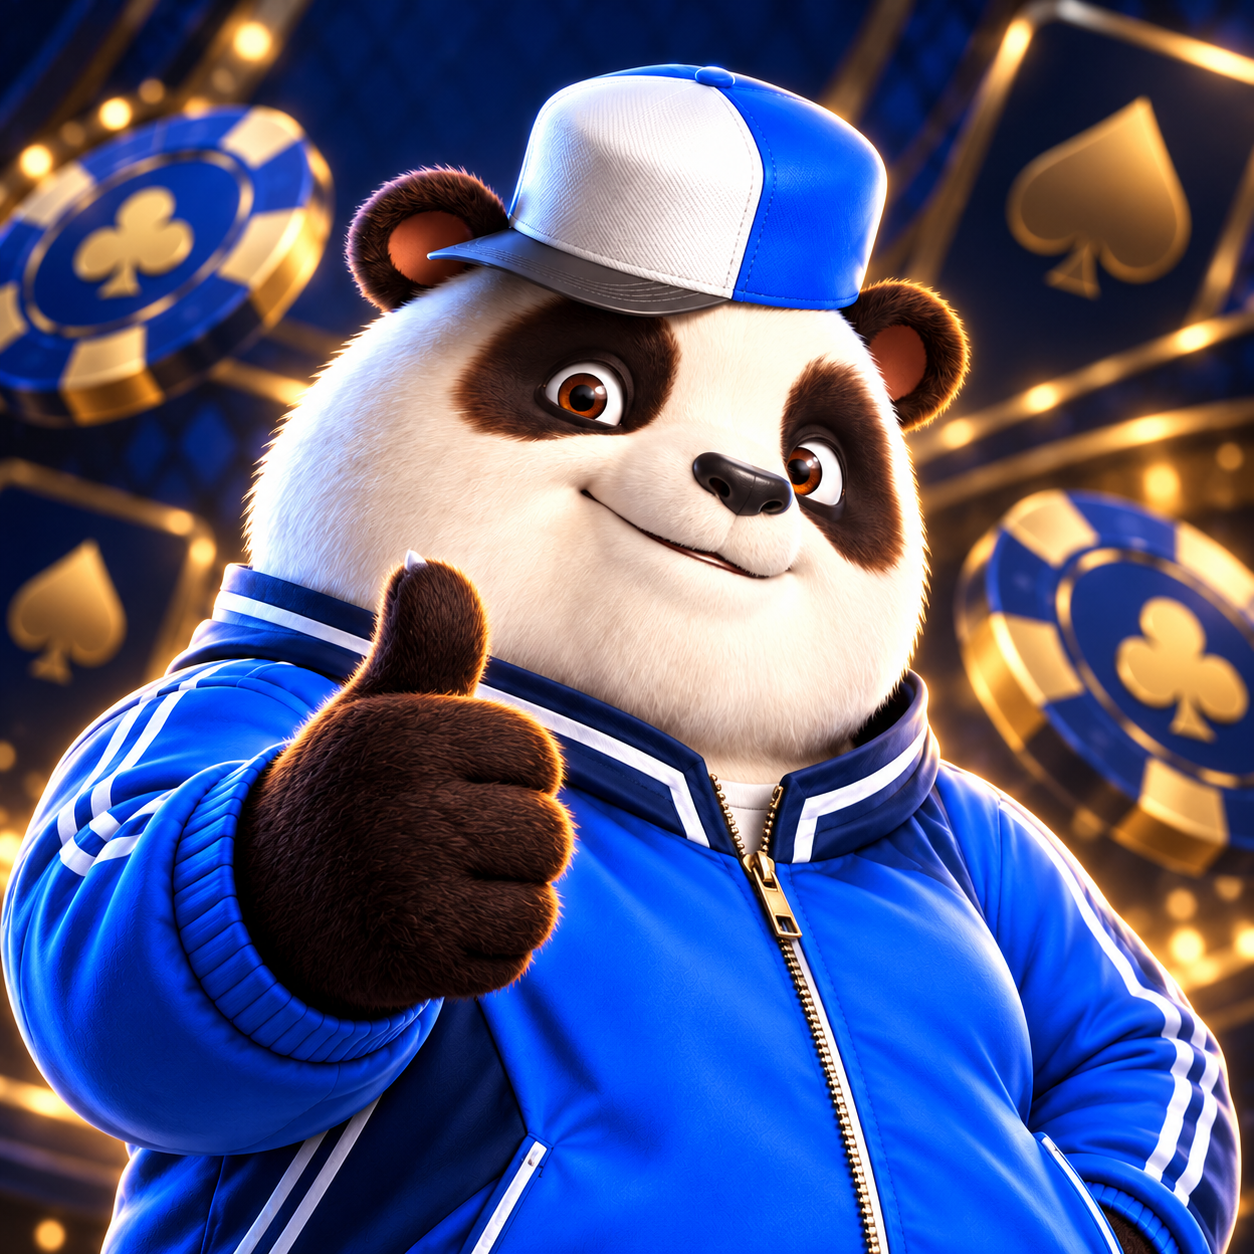
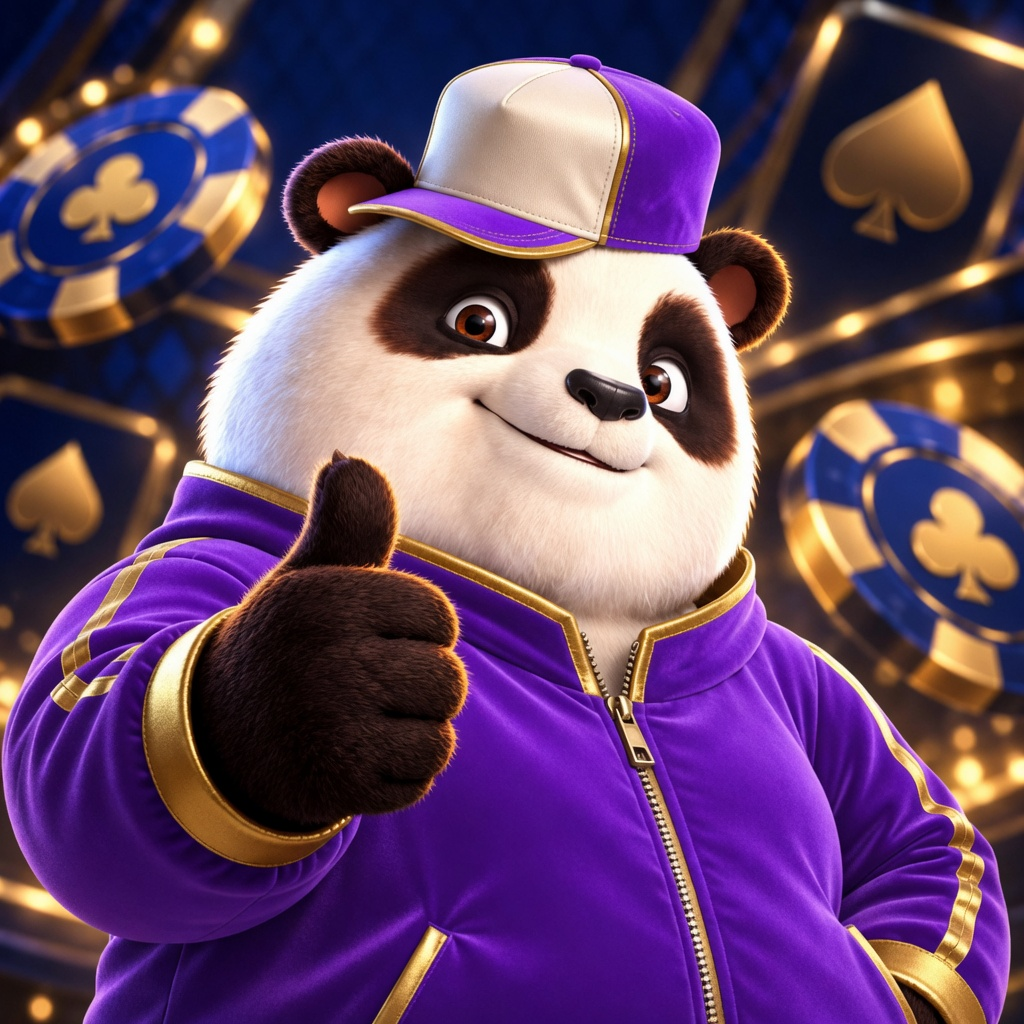
Brighten the panda outfit and refresh the access request.

diff --git a/src/reference.css b/src/reference.css
@@ -1123,8 +1123,46 @@ body:has(.user-login) { min-height: 100svh; }
 .player-access-new-request { width: 100%; margin: 10px 0 12px; border-color: #32749a; background: #103047; color: #aeeaff; }
 @media (max-width: 420px) {
   .player-access-card { padding: 16px; }
-  .player-access-name { flex-wrap: wrap; }
-  .player-access-name input { flex: 1 1 calc(100% - 120px); }
+  .player-access-name { flex-wrap: nowrap; }
+  .player-access-name input { flex: 1 1 0; }
+}
+.user-login .player-access-card { position: relative; width: min(100%, 470px); margin: 0 auto 18px; padding: 20px; overflow: hidden; border: 1px solid #763695; border-radius: 20px; background: linear-gradient(145deg, #17101eF5, #09080ef5 74%); box-shadow: 0 18px 48px #0009, 0 0 25px #a52ed122, inset 0 1px #ffffff10; backdrop-filter: blur(14px); }
+.user-login .player-access-heading { align-items: center; gap: 12px; margin: 0 0 19px; }
+.user-login .player-access-heading-icon { display: grid; place-items: center; width: 44px; height: 44px; flex: 0 0 auto; border: 1px solid #8d3bac; border-radius: 14px; background: linear-gradient(145deg, #321641, #1b1023); color: #e3a0fa; box-shadow: inset 0 0 14px #bf4be41c; }
+.user-login .player-access-eyebrow { display: block; margin: 0 0 4px; color: #d181ef; font-size: 9px; font-weight: 850; letter-spacing: .13em; line-height: 1.2; }
+.user-login .player-access-heading h2 { margin: 0 0 4px; color: #fff; font-size: 22px; font-weight: 850; letter-spacing: -.35px; line-height: 1.15; }
+.user-login .player-access-heading p { margin: 0; color: #c4b4cf; font-size: 12px; line-height: 1.4; }
+.user-login .player-access-back { display: grid; place-items: center; width: 38px; height: 38px; padding: 0; border: 1px solid #59336c; border-radius: 12px; background: #130e19; color: #e5c5f2; }
+.user-login .player-access-form { gap: 14px; }
+.player-access-step { display: flex; align-items: center; gap: 10px; margin: 0 0 1px; padding: 10px 12px; border: 1px solid #573264; border-radius: 13px; background: linear-gradient(110deg, #281434, #16101c); }
+.player-access-step > span { display: grid; place-items: center; width: 28px; height: 28px; flex: 0 0 auto; border: 1px solid #d7a84d; border-radius: 50%; background: #362718; color: #ffd36b; font-size: 13px; font-weight: 900; }
+.player-access-step > div { display: grid; gap: 2px; min-width: 0; flex: 1; }
+.player-access-step strong { color: #f7effb; font-size: 13px; }
+.player-access-step small { color: #bdaac8; font-size: 11px; }
+.player-access-step > b { color: #e5bd5c; font-size: 10px; font-weight: 800; letter-spacing: .04em; text-transform: uppercase; }
+.user-login .player-access-form label { display: block; margin: 0; color: #f1eaf5; font-size: 12px; font-weight: 750; line-height: 1.4; }
+.user-login .player-access-form label > span { color: #b99fc5; font-size: 11px; font-weight: 600; }
+.user-login .player-access-name { gap: 7px; margin-top: 7px; }
+.user-login .player-access-name > svg { left: 12px; color: #c877e8; }
+.user-login .player-access-name input,
+.user-login .player-access-form > label > input { min-width: 0; min-height: 48px; margin: 0; border: 1px solid #563765; border-radius: 11px; background: #110d17; color: #fff; caret-color: #e3a0fa; font-size: 14px; transition: border-color 140ms ease, box-shadow 140ms ease; }
+.user-login .player-access-name input { padding: 11px 10px 11px 38px; }
+.user-login .player-access-form > label > input { width: 100%; margin-top: 7px; padding: 11px 13px; }
+.user-login .player-access-name input::placeholder,
+.user-login .player-access-form > label > input::placeholder { color: #887695; opacity: 1; }
+.user-login .player-access-name input:focus,
+.user-login .player-access-form > label > input:focus { border-color: #c34de8; outline: 0; box-shadow: 0 0 0 3px #bd3de526; }
+.user-login .player-access-name button { display: inline-flex; align-items: center; justify-content: center; gap: 6px; min-height: 46px; padding: 8px 10px; border: 1px solid #75418d; border-radius: 11px; background: #21132a; color: #e9c5f7; font-size: 11px; font-weight: 750; }
+.player-access-field-hint { display: block; margin: 5px 0 0; color: #9f8ba9; font-size: 10px; font-weight: 500; line-height: 1.35; }
+.user-login .player-access-form .primary { min-height: 50px; margin: 1px 0 0; border: 1px solid #d05af0; border-radius: 12px; background: linear-gradient(110deg, #8c22b2, #66148a 56%, #42105f); color: #fff; font-size: 15px; font-weight: 850; letter-spacing: .01em; box-shadow: 0 7px 18px #871da933, inset 0 1px #ffffff20; }
+.user-login .player-access-form .primary:not(:disabled):hover { filter: brightness(1.12); transform: translateY(-1px); }
+.user-login .player-access-form .primary:disabled { opacity: .65; }
+@media (max-width: 360px) {
+  .user-login .player-access-card { padding: 16px; }
+  .user-login .player-access-heading { gap: 9px; }
+  .user-login .player-access-heading-icon { width: 39px; height: 39px; }
+  .user-login .player-access-heading h2 { font-size: 20px; }
+  .user-login .player-access-name button { gap: 4px; padding-inline: 8px; font-size: 10px; }
 }
 
 /* Tema oscuro: grafito casi negro con acentos azules discretos. */

diff --git a/src/player-access.tsx b/src/player-access.tsx
@@ -111,15 +111,14 @@ export function PlayerAccessRequest({ onBack }: { onBack: () => void }) {
   }
 
   return <section className="card player-access-card">
-    <header><div><h2>{thread ? `Solicitud de @${thread.username}` : 'Crear usuario'}</h2><p>{thread ? 'Conversá con el equipo de GANA777 desde este dispositivo.' : 'Elegí tu nombre de usuario y, si tenés, agregá el código de quien te recomendó.'}</p></div><button type="button" className="player-access-back" onClick={onBack} aria-label="Volver al ingreso"><ArrowLeft size={18} /></button></header>
+    <header className="player-access-heading"><span className="player-access-heading-icon"><UserRound size={21} /></span><div><small className="player-access-eyebrow">{thread ? 'SEGUIMIENTO' : 'SOLICITUD DE ACCESO'}</small><h2>{thread ? `Solicitud de @${thread.username}` : 'Crear tu usuario'}</h2><p>{thread ? 'Hablá con el equipo de Gana777 desde este dispositivo.' : 'Elegí un nombre para iniciar tu solicitud.'}</p></div><button type="button" className="player-access-back" onClick={onBack} aria-label="Volver al ingreso"><ArrowLeft size={18} /></button></header>
     {!thread ? <form className="player-access-form" onSubmit={event => void createRequest(event)}>
-      <label>Nombre de usuario<div className="player-access-name"><UserRound size={18} /><input name="username" value={username} onChange={event => setUsername(event.target.value.toLowerCase())} minLength={3} maxLength={32} pattern="[a-zA-Z0-9._-]+" autoCapitalize="none" autoComplete="username" placeholder="Ej.: jackpot777" required /><button type="button" onClick={() => setUsername(generatedName())}><Dices size={17} />Generar</button></div></label>
-      <label>Código de recomendado <span>(opcional)</span><input name="referral_code" maxLength={33} autoCapitalize="none" spellCheck={false} placeholder="Nombre de usuario de quien te recomendó" /></label>
+      <div className="player-access-step"><span>1</span><div><strong>Tus datos</strong><small>Nombre de usuario y referido opcional</small></div><b>1 paso</b></div>
+      <label>Nombre de usuario<div className="player-access-name"><UserRound size={18} /><input name="username" value={username} onChange={event => setUsername(event.target.value.toLowerCase())} minLength={3} maxLength={32} pattern="[a-zA-Z0-9._-]+" autoCapitalize="none" autoComplete="username" placeholder="Ej.: jackpot777" required /><button type="button" onClick={() => setUsername(generatedName())}><Dices size={17} />Generar</button></div><small className="player-access-field-hint">Usá de 3 a 32 letras, números, puntos o guiones.</small></label>
+      <label>Código de recomendado <span>· opcional</span><input name="referral_code" maxLength={33} autoCapitalize="none" spellCheck={false} placeholder="Usuario de quien te recomendó" /><small className="player-access-field-hint">Si nadie te invitó, podés dejarlo vacío.</small></label>
       <label className="player-access-honeypot" aria-hidden="true">Dejar vacío<input name="website" tabIndex={-1} autoComplete="off" /></label>
       {error && <p className="player-access-error" role="alert">{error}</p>}
-      <button className="primary" disabled={busy || restoring}>{restoring ? 'Cargando…' : busy ? 'Enviando solicitud…' : 'Solicitar usuario'}</button>
-      <small>No envíes documentos ni datos bancarios por este chat.</small>
-      <small>La cuenta se crea manualmente después de revisar tu solicitud. Podés solicitar usuarios desde una red compartida.</small>
+      <button className="primary" disabled={busy || restoring}>{restoring ? 'Cargando…' : busy ? 'Enviando solicitud…' : 'Enviar solicitud'}</button>
     </form> : <>
       <div className="player-access-status"><strong>{thread.status === 'approved' ? 'Usuario creado' : thread.status === 'rejected' ? 'Solicitud cerrada' : 'Esperando al equipo'}</strong><span>Usuario solicitado: @{thread.username}</span>{thread.referral_code && <small>Recomendado por @{thread.referral_code}</small>}</div>
       <div className="player-access-messages" ref={log} role="log" aria-live="polite">

diff --git a/src/user-views.tsx b/src/user-views.tsx
@@ -35,9 +35,9 @@ export function Brand({ panel = false, homeHeader = false }: { panel?: boolean; 
 export function SectionHeading({ icon, title, description }: { icon: ReactNode; title: string; description?: string }) {
   return <div className="section-heading"><span className="icon-circle">{icon}</span><div><h2>{title}</h2>{description && <p>{description}</p>}</div></div>;
 }
-export function LoginView({ admin, busy, configured, feedback, onLogin, onDemo, onHelp, retryAt, siteKey }: {
+export function LoginView({ admin, busy, configured, feedback, onLogin, onDemo, retryAt, siteKey }: {
   admin: boolean; busy: boolean; configured: boolean; feedback: ReactNode; retryAt: number; siteKey: string;
-  onLogin: (event: FormEvent<HTMLFormElement>, captchaToken: string | null) => Promise<void>; onDemo: () => void; onHelp: () => void;
+  onLogin: (event: FormEvent<HTMLFormElement>, captchaToken: string | null) => Promise<void>; onDemo: () => void;
 }) {
   const [visible, setVisible] = useState(false);
   const [captchaToken, setCaptchaToken] = useState<string | null>(null);
@@ -60,7 +60,7 @@ export function LoginView({ admin, busy, configured, feedback, onLogin, onDemo, 
   const surface = themeSurface(settings, path => supabase?.storage.from('app-assets').getPublicUrl(path).data.publicUrl ?? null);
   return <main className={`login ${admin ? 'admin-login' : `user-login ${surface.className}`}`} style={admin ? undefined : surface.style}>
     {admin && <Brand panel />}
-    {admin ? <p className="eyebrow">PANEL DE ADMINISTRACIÓN</p> : <div className={`login-character ${settings.login_image_path === 'brand/panda-login-transparent.png' ? 'transparent-character' : settings.login_image_layout === 'reference' ? 'reference-character' : ''}`}><StorageImage path={settings.login_image_path} fallbackPath="brand/panda-login-transparent.png" alt="Panda GANA777 con gorra y campera azul" /></div>}
+    {admin ? <p className="eyebrow">PANEL DE ADMINISTRACIÓN</p> : <div className={`login-character ${settings.login_image_path === 'brand/panda-login-transparent.png' || settings.login_image_path === 'brand/panda-login-bright.png' ? 'transparent-character' : settings.login_image_layout === 'reference' ? 'reference-character' : ''}`}><StorageImage path={settings.login_image_path} fallbackPath="brand/panda-login-transparent.png" alt="Panda GANA777 con gorra y campera morada" /></div>}
     {!admin && requestingAccess ? <PlayerAccessRequest onBack={() => setRequestingAccess(false)} /> : <><section className="card login-card">{!admin && <span className="brand login-domain-brand">gana777bet.com</span>}<h1>Bienvenido</h1>{admin && <p>Ingresá a tu cuenta</p>}
       <form onSubmit={submit}>
         {admin && <label htmlFor="email">Usuario o correo electrónico</label>}
@@ -71,7 +71,6 @@ export function LoginView({ admin, busy, configured, feedback, onLogin, onDemo, 
         {feedback}{retrySeconds > 0 && <p className="login-retry" role="status">Podés volver a intentar en {retrySeconds} segundos.</p>}
         <button className="primary" disabled={busy || retrySeconds > 0 || (!!siteKey && !captchaToken)}>{busy ? 'Ingresando…' : retrySeconds > 0 ? 'Esperá para reintentar' : 'Ingresar'}</button>
       </form>
-      {safeHttpsLink(settings.help_url) ? <a className="help-link" href={safeHttpsLink(settings.help_url)!} target="_blank" rel="noopener noreferrer">¿Necesitás ayuda?</a> : <button className="help-link" onClick={onHelp}>¿Necesitás ayuda?</button>}
     </section>{!admin && <button type="button" className="player-access-open" onClick={() => setRequestingAccess(true)}><span className="player-access-icon"><UserPlus size={22} aria-hidden="true" /></span><span className="player-access-copy"><strong>Crear usuario</strong><small>¿Primera vez? Solicitá tu acceso</small></span><ChevronRight className="player-access-arrow" size={20} aria-hidden="true" /></button>}</>}
     {!admin && <PortalInstall />}
     {(!configured || import.meta.env.DEV) && <button className="text-button" onClick={onDemo}>Explorar vista previa</button>}

diff --git a/src/main.tsx b/src/main.tsx
@@ -809,7 +809,7 @@ function App() {
   const feedback = <>{error && <div role="alert" className="alert error">{error}</div>}{notice && <div role="status" className="alert">{notice}</div>}</>;
   if (!adminApp && (!initialReady || initialError)) return <PortalBootScreen error={initialError} onRetry={retryInitialLoad} />;
   if (loading) return <main className="login"><Brand panel={adminApp} /><p>Cargando tu cuenta…</p></main>;
-  if (!session && !demo) return <LoginView admin={adminApp} busy={busy} retryAt={loginRetryAt} siteKey={turnstileSiteKey} configured={!!supabase} feedback={<>{configError && <div role="alert" className="alert error">{configError}</div>}{feedback}</>} onLogin={login} onDemo={startDemo} onHelp={() => setNotice('Si no podés ingresar, comunicate con el soporte que te proporcionó tu cuenta.')} />;
+  if (!session && !demo) return <LoginView admin={adminApp} busy={busy} retryAt={loginRetryAt} siteKey={turnstileSiteKey} configured={!!supabase} feedback={<>{configError && <div role="alert" className="alert error">{configError}</div>}{feedback}</>} onLogin={login} onDemo={startDemo} />;
 
   function history(kind?: RequestRow['kind']) {
     const adminHistory = adminApp && page === 'history' && kind === undefined;

diff --git a/src/content.tsx b/src/content.tsx
@@ -175,6 +175,7 @@ export function ContentProvider({ children }: { children: React.ReactNode }) {
 // Local fallbacks keep the core character assets available before Storage responds.
 const previewFiles: Record<string, string> = {
   'brand/panda-login-transparent.png': pandaLogin,
+  'brand/panda-login-bright.png': pandaLogin,
   'avatars/panda-user-avatar.png': pandaAvatar,
 };
 export function StorageImage({ path, alt, className = '', fallbackPath }: { path: string; alt: string; className?: string; fallbackPath?: string }) {
